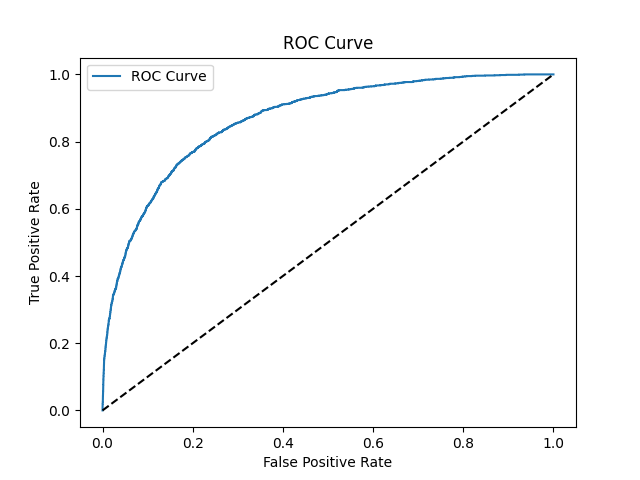
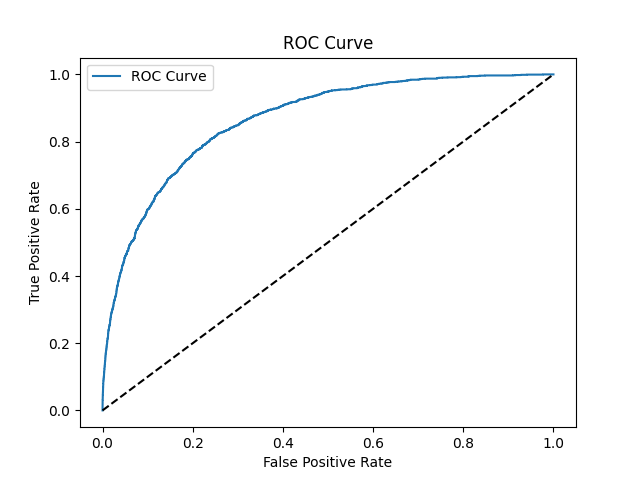
feat：完善模型代码

diff --git a/src/model/DNN.py b/src/model/DNN.py
@@ -117,13 +117,13 @@ def DNNModel(df):
     plt.subplot(1, 2, 1)
     plt.plot(history.history['auc'], label='Train AUC')
     plt.plot(history.history['val_auc'], label='Validation AUC')
-    plt.title('AUC 曲线')
+    plt.title('AUC curve')
     plt.legend()
 
     plt.subplot(1, 2, 2)
     plt.plot(history.history['loss'], label='Train Loss')
     plt.plot(history.history['val_loss'], label='Validation Loss')
-    plt.title('Loss 曲线')
+    plt.title('Loss curve')
     plt.legend()
     plt.savefig(DNN_VIS_DIR / "dnn_training_curve.png")
     print("训练曲线图已保存至：", DNN_VIS_DIR / "dnn_training_curve.png")

diff --git a/src/model/Xgboost.py b/src/model/Xgboost.py
@@ -95,7 +95,9 @@ def XGBoostModel(df):
     print("分类特征重要性图已保存至：", XG_VIS_DIR / "cat_feature_importance.png")
 
 
-# 主程序入口
+
+
+
 if __name__ == '__main__':
     df = pd.read_csv(DATA_FILE)
     XGBoostModel(df)
